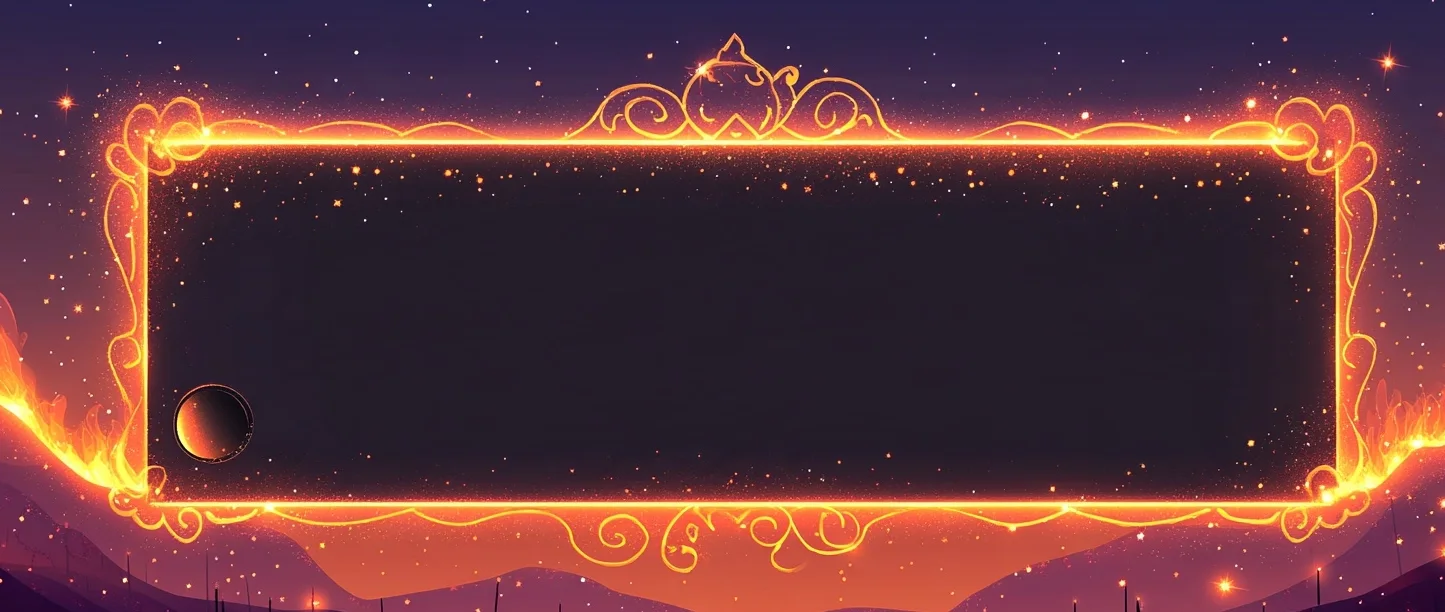
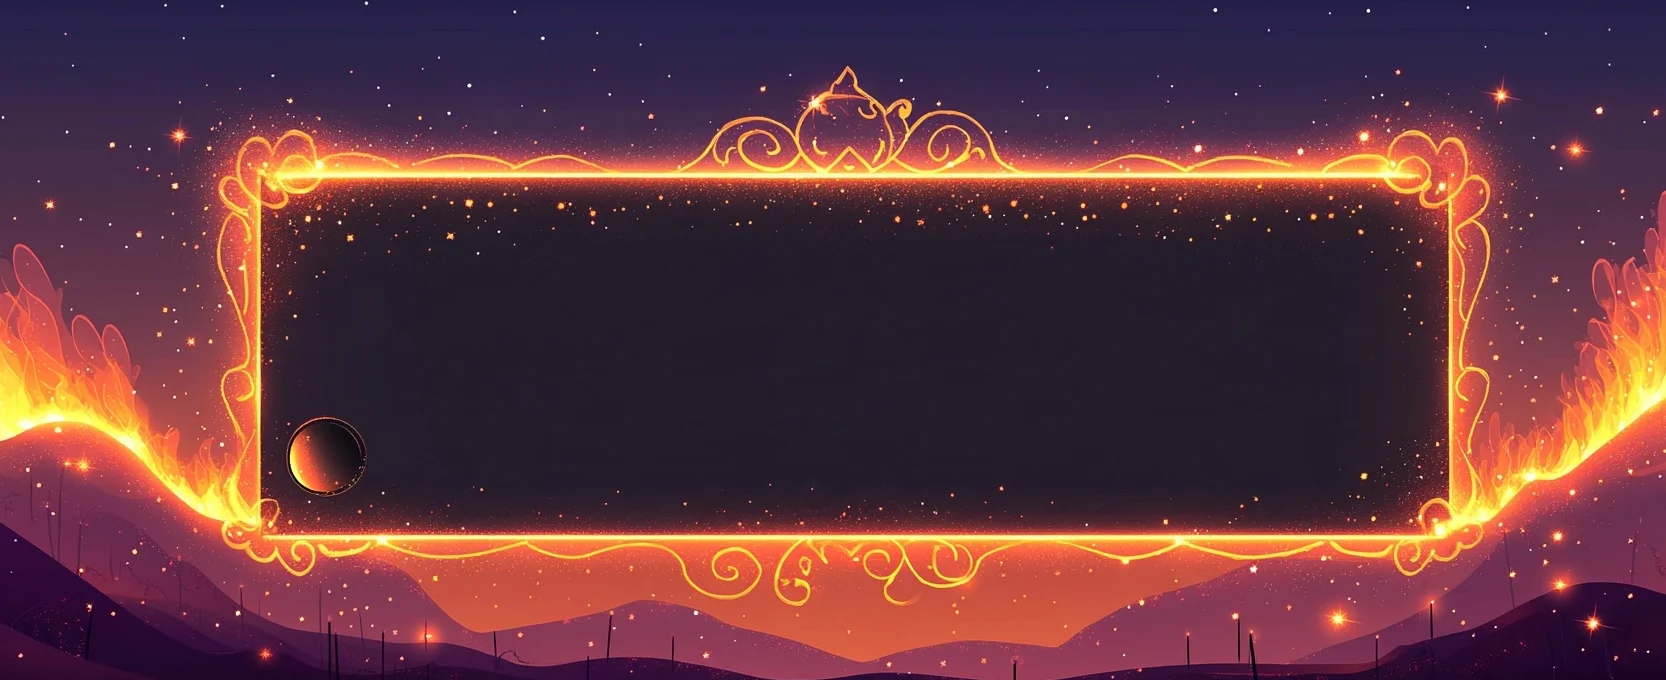
one box for every rarity (Skylar 9/30 round three: 'we need all the rectangle boxes to be the same size') — all seven sigrow sites pinned to 49:20, every frame cut at ~85% of the box width with MJ's own scenery in the margins (common/epic/legendary re-cut wider from untouched sources; rare keeps the

diff --git a/index.html b/index.html
@@ -278,30 +278,32 @@
   "more rectangular" roll to match. <b>9/30:</b> the subscription renewed and the reroll fired — four true
   rectangles this time; the rows below wear <b>FRAME 3</b> provisionally (thin straight edges, sharp corners,
   the coolest blue of the roll). The chip below rules it — the 9/13 roll and the glass roll stand flagged as
-  the record. <b>Shape note (Skylar 9/30, two rounds):</b> MJ drew every rare glass near 2:1 while its kin run
-  2.4–3.1, so the row towered; a first fix cropped to the frame edge-to-edge, which only made the glass fill
-  its image ("you either just zoomed in or cut off the bottom"). The cut now <b>re-proportions the whole
-  scene</b> (~0.71 vertical — straight glass over sky and water takes it invisibly) and seats the frame back
-  in its scenery at the family footprint: 86% of the image's width, 72% of its height, sky above and water
-  below (1016×415). The alternates below stay the roll's untouched record.</p>
+  the record. <b>Shape note (Skylar 9/30, three rounds):</b> MJ drew every rare glass near 2:1 while its kin run
+  2.4–3.1, so the rare row towered; cropping to the frame only made the glass fill its image edge-to-edge;
+  and matching rare to its kin still left common the short outlier on the phone sheet ("we need all the
+  rectangle boxes to be the same size"). The law that stuck: <b>every rarity row is one box — 49:20 — with
+  its frame at ~85% of the box's width</b>, MJ's own scenery filling the margins. The rare scene is
+  re-proportioned ~0.71 vertical first (straight glass over sky and water takes it invisibly); common, epic
+  and legendary are simply re-cut wider from their untouched sources. The alternates below stay each roll's
+  untouched record.</p>
 
   <div class="stage">
     <div style="flex:0 0 auto;width:min(350px,100%);margin:0 auto">
       <div class="phone">
         <div class="act">ACT I · THE MEADOW SKY</div>
         <div class="choose">— CHOOSE A SIGIL —</div>
-        <div class="sigrow" style="aspect-ratio:1428/461"><img src="art/cut_common.webp" alt="common row — carved wood and bronze, frame only">
-          <div class="rowpanel ink-common" style="left:10%;top:21%;width:80%;height:60%">
+        <div class="sigrow" style="aspect-ratio:49/20"><img src="art/cut_common.webp" alt="common row — carved wood and bronze, frame only">
+          <div class="rowpanel ink-common" style="left:15.7%;top:31.6%;width:68.6%;height:40.7%">
             <div class="roundel"><span>❦</span></div>
             <div class="rowtx"><div class="nm">EMBER QUILL</div><div class="ds">Every word deals +4 damage.</div></div>
           </div></div>
-        <div class="sigrow" style="aspect-ratio:1016/415"><img src="art/cut_rare.webp" alt="rare row — sapphire crystal, frame only">
-          <div class="rowpanel ink-rare" style="left:14%;top:22%;width:72%;height:54%">
+        <div class="sigrow" style="aspect-ratio:49/20"><img src="art/cut_rare.webp" alt="rare row — sapphire crystal, frame only">
+          <div class="rowpanel ink-rare" style="left:14.5%;top:27%;width:71.1%;height:44%">
             <div class="roundel"><span>↯</span></div>
             <div class="rowtx"><div class="nm">STORMBINDER</div><div class="ds">Every third word you cast strikes twice.</div></div>
           </div></div>
-        <div class="sigrow" style="aspect-ratio:1445/612"><div class="lglow"></div><img src="art/cut_legendary.webp" alt="legendary row — molten ember, frame only">
-          <div class="rowpanel ink-legend" style="left:15.1%;top:28.2%;width:72.1%;height:45.9%">
+        <div class="sigrow" style="aspect-ratio:49/20"><div class="lglow"></div><img src="art/cut_legendary.webp" alt="legendary row — molten ember, frame only">
+          <div class="rowpanel ink-legend" style="left:19.8%;top:30.4%;width:62.5%;height:41.3%">
             <div class="roundel"><span>❋</span></div>
             <div class="rowtx"><div class="nm">PHOENIX FEATHER</div><div class="ds">Once per run, survive death at 1 health.</div></div>
           </div></div>
@@ -323,23 +325,23 @@
   <p class="sub" style="font-size:13px">Real game text; the one sigil in the book whose ladder touches every grade.
   The legendary row breathes, sparks and shimmers — build note: that motion is re-added in-engine, never baked.</p>
   <div class="bigrows">
-    <div class="sigrow" style="aspect-ratio:1428/461"><img src="art/cut_common.webp" alt="">
-      <div class="rowpanel ink-common" style="left:10%;top:21%;width:80%;height:60%">
+    <div class="sigrow" style="aspect-ratio:49/20"><img src="art/cut_common.webp" alt="">
+      <div class="rowpanel ink-common" style="left:15.7%;top:31.6%;width:68.6%;height:40.7%">
         <div class="roundel"><span>❦</span></div>
         <div class="rowtx"><div class="nm">EMBER QUILL</div><div class="gr">COMMON · I</div><div class="ds">Every word deals +4 damage.</div></div>
       </div></div>
-    <div class="sigrow" style="aspect-ratio:1016/415"><img src="art/cut_rare.webp" alt="">
-      <div class="rowpanel ink-rare" style="left:14%;top:22%;width:72%;height:54%">
+    <div class="sigrow" style="aspect-ratio:49/20"><img src="art/cut_rare.webp" alt="">
+      <div class="rowpanel ink-rare" style="left:14.5%;top:27%;width:71.1%;height:44%">
         <div class="roundel"><span>❦</span></div>
         <div class="rowtx"><div class="nm">EMBER QUILL</div><div class="gr">RARE · II</div><div class="ds">Every word deals +6 damage.</div></div>
       </div></div>
-    <div class="sigrow" style="aspect-ratio:1344/540"><img src="art/cut_epic.webp" alt="">
-      <div class="rowpanel ink-epic" style="left:12%;top:26%;width:76%;height:56%">
+    <div class="sigrow" style="aspect-ratio:49/20"><img src="art/cut_epic.webp" alt="">
+      <div class="rowpanel ink-epic" style="left:17.4%;top:29.8%;width:65.1%;height:47.3%">
         <div class="roundel"><span>❦</span></div>
         <div class="rowtx"><div class="nm">EMBER QUILL</div><div class="gr">EPIC · III</div><div class="ds">Every word deals +8 damage.</div></div>
       </div></div>
-    <div class="sigrow" style="aspect-ratio:1445/612"><div class="lglow"></div><img src="art/cut_legendary.webp" alt="">
-      <div class="rowpanel ink-legend" style="left:15.1%;top:28.2%;width:72.1%;height:45.9%">
+    <div class="sigrow" style="aspect-ratio:49/20"><div class="lglow"></div><img src="art/cut_legendary.webp" alt="">
+      <div class="rowpanel ink-legend" style="left:19.8%;top:30.4%;width:62.5%;height:41.3%">
         <div class="roundel"><span>❦</span></div>
         <div class="rowtx"><div class="nm">EMBER QUILL</div><div class="gr">LEGENDARY · IV</div><div class="ds">Every word deals +11 damage.</div></div>
       </div></div>
